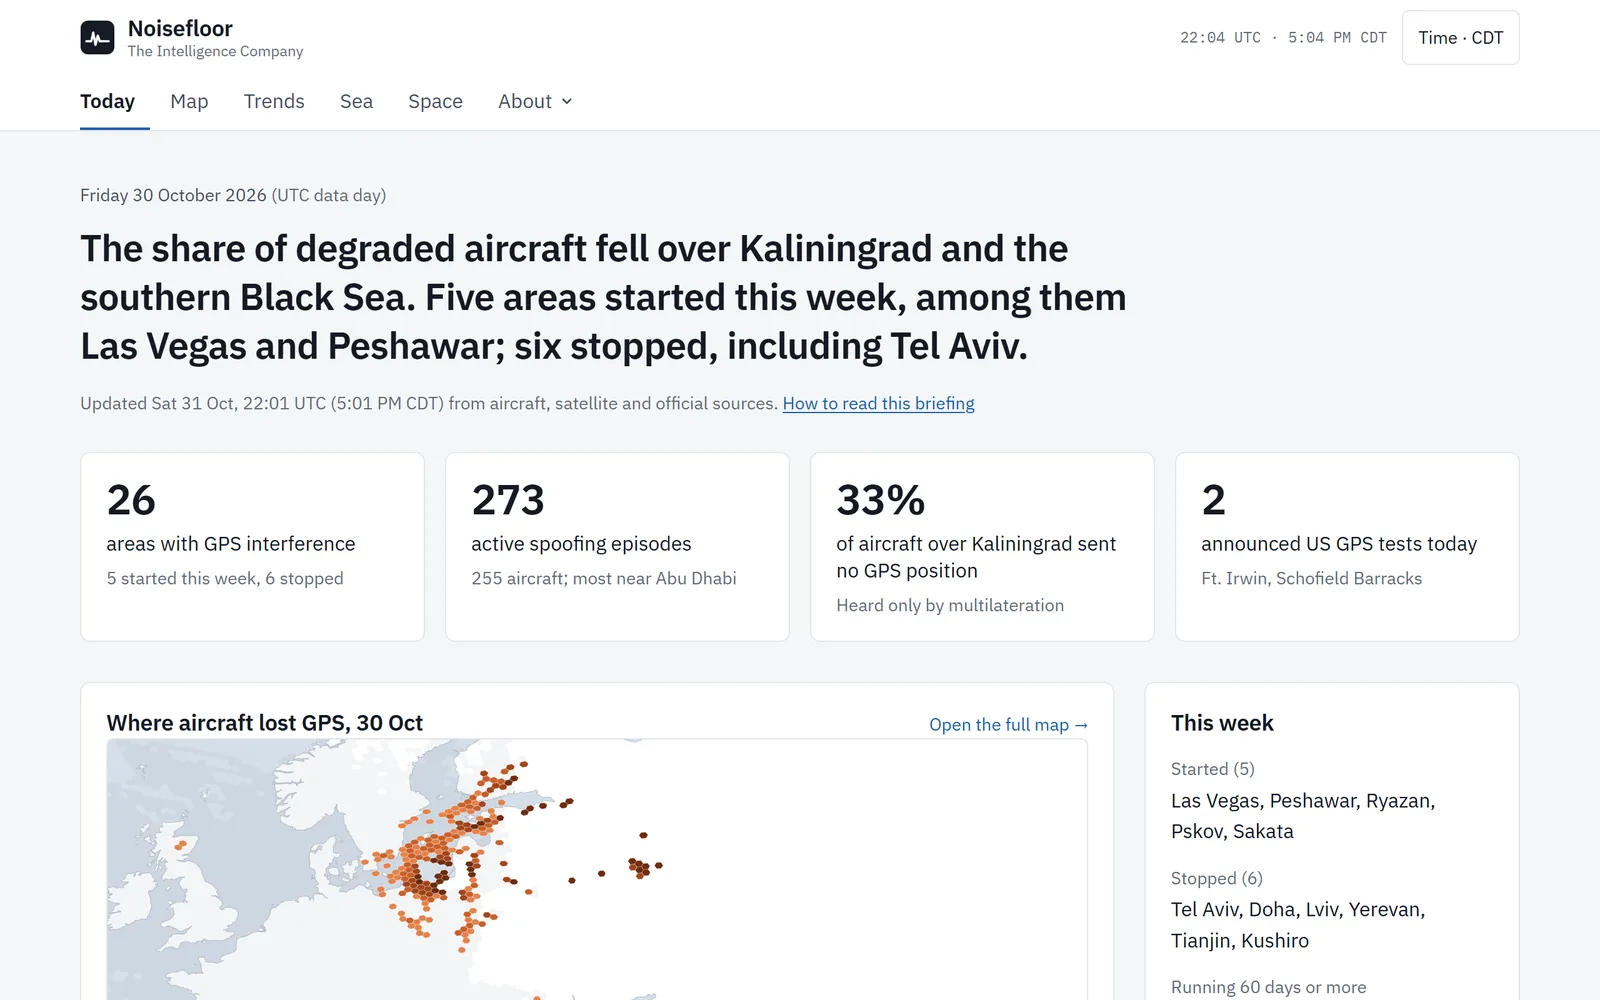
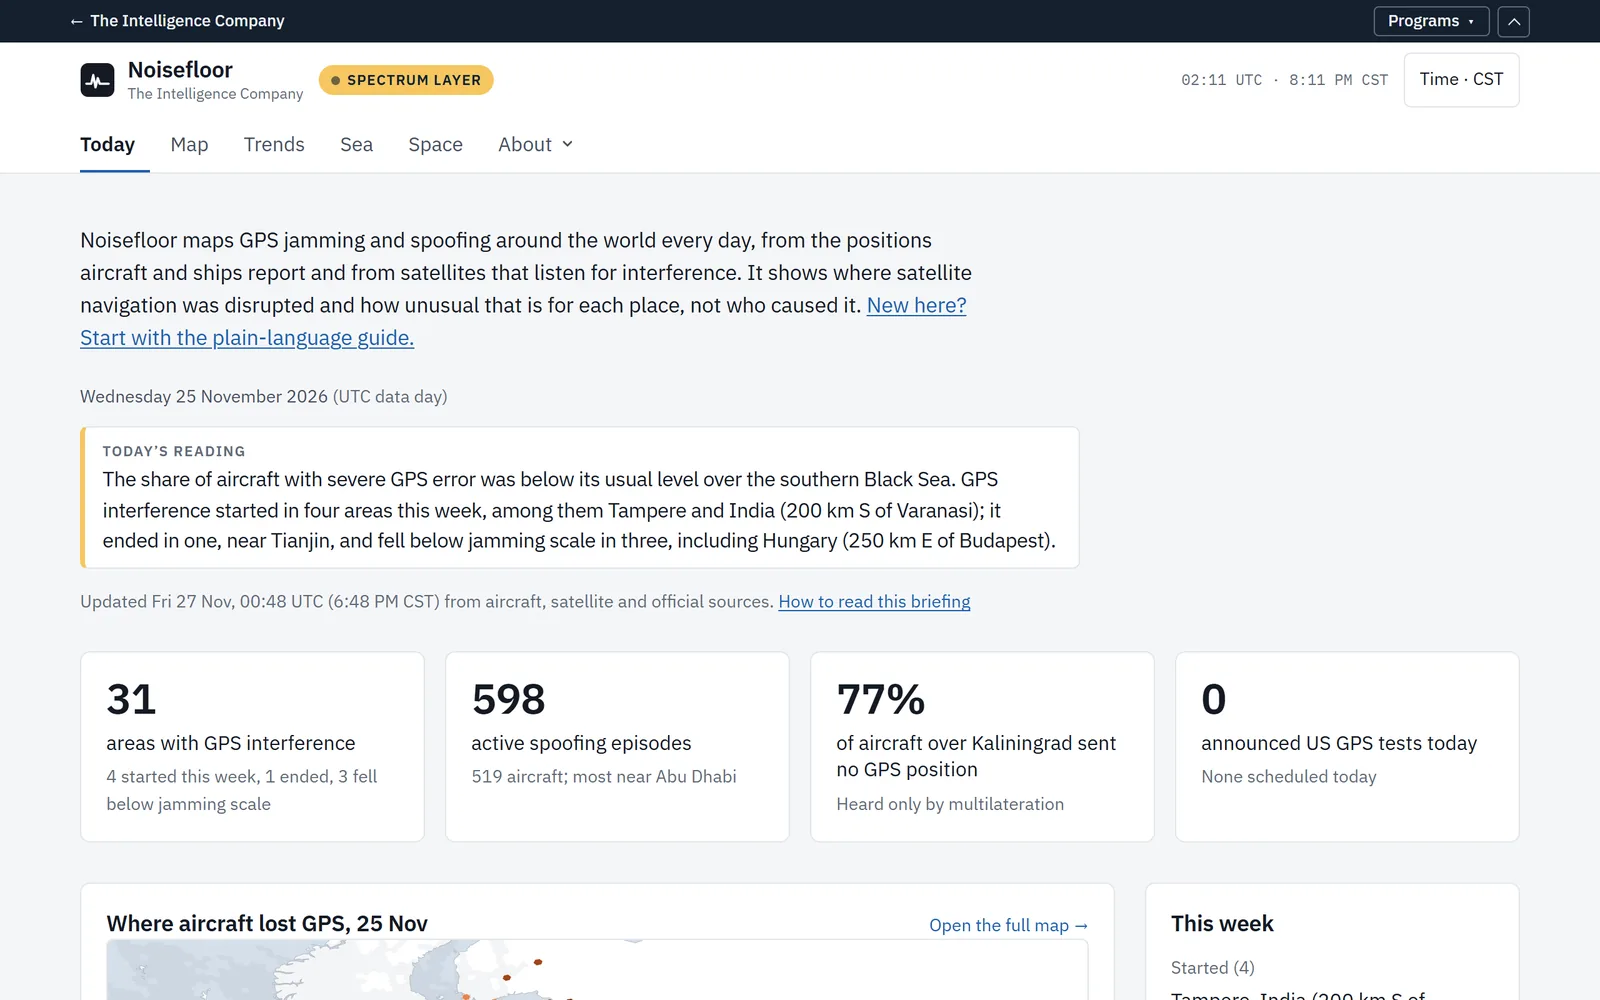
Home page: COP in Products, current screenshots, wider subject line
COP joins the featured programs. The COP, Noisefloor and Watchfloor screenshots are
retaken, and tools/shots.js retakes them and dates their captions. The top line,
description tags and link-preview image name the subjects the programs now cover.

Assisted-by: Claude Code (Anthropic)

diff --git a/site/index.html b/site/index.html
@@ -5,23 +5,23 @@
 <meta name="viewport" content="width=device-width, initial-scale=1">
 <title>The Intelligence Company · OSINT from Fargo-Moorhead, ND/MN</title>
 <link rel="canonical" href="https://theintelligence.company/">
-<meta name="description" content="Open-source intelligence tools from Fargo-Moorhead, ND/MN: conflict warning, GPS jamming and spoofing, cyber threats and verified forecasting.">
+<meta name="description" content="Open-source intelligence tools from Fargo-Moorhead, ND/MN: conflict warning, GPS jamming and spoofing, cyber threats and outages, space, natural hazards and verified forecasting.">
 <meta property="og:type" content="website">
 <meta property="og:site_name" content="The Intelligence Company">
 <meta property="og:title" content="The Intelligence Company">
-<meta property="og:description" content="Open-source intelligence tools from Fargo-Moorhead, ND/MN: conflict warning, GPS jamming and spoofing, cyber threats and verified forecasting.">
+<meta property="og:description" content="Open-source intelligence tools from Fargo-Moorhead, ND/MN: conflict warning, GPS jamming and spoofing, cyber threats and outages, space, natural hazards and verified forecasting.">
 <meta property="og:url" content="https://theintelligence.company/">
 <meta property="og:image" content="https://theintelligence.company/img/og-card.png">
 <meta property="og:image:width" content="1200">
 <meta property="og:image:height" content="630">
-<meta property="og:image:alt" content="The Intelligence Company: open-source intelligence, built in the Red River Valley. Conflict, GPS interference, cyber threats and forecasting, from Fargo-Moorhead, ND/MN.">
+<meta property="og:image:alt" content="The Intelligence Company: open-source intelligence, built in the Red River Valley. Conflict, GPS interference, cyber, space, hazards and forecasting, from Fargo-Moorhead, ND/MN.">
 <meta name="twitter:card" content="summary_large_image">
 <script type="application/ld+json">
 {"@context": "https://schema.org", "@graph": [
   {"@type": "Organization", "@id": "https://theintelligence.company/#org", "name": "The Intelligence Company",
    "url": "https://theintelligence.company/", "logo": "https://theintelligence.company/img/logo-512.png",
    "email": "support@theintelligence.company",
-   "description": "Open-source intelligence tools from publicly available information: conflict warning, GPS jamming and spoofing, cyber threats and verified forecasting.",
+   "description": "Open-source intelligence tools from publicly available information: conflict warning, GPS jamming and spoofing, cyber threats and outages, space, natural hazards and verified forecasting.",
    "founder": {"@type": "Person", "name": "Thomas Brummer", "image": "https://theintelligence.company/img/thomas-brummer.webp",
      "sameAs": ["https://www.linkedin.com/in/tom-brummer/"]},
    "address": {"@type": "PostalAddress", "addressLocality": "Fargo", "addressRegion": "ND", "addressCountry": "US"}},
@@ -76,11 +76,11 @@
 <noscript><p class="wrap noscript">The map, the Latest panel and the time settings need JavaScript. The rest of this page works without it.</p></noscript>
   <section class="wrap hero">
     <div class="hero-main">
-      <p class="kicker">Conflict · GPS interference · Cyber threats · Forecasting</p>
+      <p class="kicker">Conflict · GPS · Cyber · Space · Hazards · Forecasting</p>
       <h1>Open-source intelligence, built in the Red River Valley.</h1>
       <p class="lede">We build monitoring and analysis tools from publicly available information: warning on conflict,
-        GPS jamming and spoofing, cyber threats, and forecasts that check themselves. Every product credits its
-        sources, dates its claims and publishes its methods.</p>
+        GPS jamming and spoofing, cyber threats and outages, activity in orbit, natural hazards, and forecasts that
+        check themselves. Every product credits its sources, dates its claims and publishes its methods.</p>
       <p class="actions">
         <a class="btn" href="#products">See the products</a>
       </p>
@@ -442,6 +442,21 @@
       <p class="kicker">Products</p>
       <h2 id="products-h" class="section-h">Tools that show their sources and their methods.</h2>
 
+      <div class="feature feature-rev">
+        <figure>
+          <img src="img/cop-map.webp" width="1600" height="1000" loading="lazy" alt="COP's front page for 26 Nov 2026: filters by subject, the Today panel on which places are getting more or less concerning, starting with the Strait of Hormuz and the Gulf, and a map of findings coloured by program, from Europe across Africa to the Gulf, with a map key">
+          <figcaption>COP's map and its Today panel (screenshot, 26 Nov 2026).</figcaption>
+        </figure>
+        <div>
+          <p class="meta">Every layer · <span class="st-beta">Beta</span></p>
+          <h3 class="feature-h">COP</h3>
+          <p class="feature-text">The common operational picture: every layer's findings on one map, so a place or topic
+            that turns up in more than one layer stands out. Outages are already read against hazards, notices and press
+            attention in the same country; convergence scoring, checked by Verdict, is in development.</p>
+          <a class="more" href="https://cop.theintelligence.company" target="_blank" rel="noopener" aria-describedby="newtab">Open COP <span aria-hidden="true">↗</span></a>
+        </div>
+      </div>
+
       <div class="feature">
         <div>
           <p class="meta">Warning and monitoring · <span class="st-live">Live</span></p>
@@ -457,15 +472,15 @@
           <a class="more" href="https://noisefloor.theintelligence.company" target="_blank" rel="noopener" aria-describedby="newtab">Open Noisefloor <span aria-hidden="true">↗</span></a>
         </div>
         <figure>
-          <img src="img/noisefloor-today.webp" width="1600" height="1000" loading="lazy" alt="Noisefloor's Today page for 30 Oct 2026: the day's briefing, counts of areas with GPS interference, active spoofing episodes and aircraft over Kaliningrad sending no GPS position, and a map of where aircraft lost GPS over northern Europe">
-          <figcaption>Noisefloor's daily briefing on GPS interference (screenshot, 31 Oct 2026).</figcaption>
+          <img src="img/noisefloor-today.webp" width="1600" height="1000" loading="lazy" alt="Noisefloor's Today page for 25 Nov 2026: the day's reading, counts of areas with GPS interference, active spoofing episodes, aircraft over Kaliningrad sending no GPS position and announced US GPS tests, and the top of a map of where aircraft lost GPS">
+          <figcaption>Noisefloor's daily briefing on GPS interference (screenshot, 26 Nov 2026).</figcaption>
         </figure>
       </div>
 
       <div class="feature feature-rev">
         <figure>
-          <img src="img/watchfloor-zones.webp" width="1600" height="1000" loading="lazy" alt="Watchfloor's zone board for 30 Oct 2026: conflict zones with story counts, news attention against each zone's usual level, and reported violence against its usual level">
-          <figcaption>Watchfloor's zone board for 30 Oct 2026 (screenshot, 31 Oct 2026).</figcaption>
+          <img src="img/watchfloor-zones.webp" width="1600" height="1000" loading="lazy" alt="Watchfloor's zone board for 25 Nov 2026: places rising today, and conflict zones with story counts, news attention against each zone's usual level, and reported violence against its usual level, with India-Pakistan marked as an alarm">
+          <figcaption>Watchfloor's zone board (screenshot, 26 Nov 2026).</figcaption>
         </figure>
         <div>
           <p class="meta">Warning and monitoring · <span class="st-beta">Beta</span></p>

diff --git a/tools/shots.js b/tools/shots.js
@@ -1,0 +1,45 @@
+// Retake the hub's product screenshots from the live public sites and date their captions.
+// Usage, from the repo root (needs `npm ci` in tests/, Microsoft Edge, and Python with Pillow):
+//   node tools/shots.js              all pages below
+//   node tools/shots.js cop-map      one page
+// Look at each image before committing it, and rewrite its alt text in site/index.html to match.
+// The alt text names the data day shown, so it changes with every capture.
+// Pages behind a sign-in (vigil-actors) are not captured here.
+const { execFileSync } = require("node:child_process");
+const fs = require("node:fs");
+const os = require("node:os");
+const path = require("node:path");
+const { chromium } = require(path.join(__dirname, "..", "tests", "node_modules", "playwright-core"));
+
+const PAGES = {
+  "cop-map": "https://cop.theintelligence.company/",
+  "noisefloor-today": "https://noisefloor.theintelligence.company/",
+  "watchfloor-zones": "https://watchfloor.theintelligence.company/",
+};
+
+(async () => {
+  const names = process.argv.slice(2).length ? process.argv.slice(2) : Object.keys(PAGES);
+  const dir = fs.mkdtempSync(path.join(os.tmpdir(), "shots-"));
+  const browser = await chromium.launch({ channel: "msedge", args: ["--enable-unsafe-swiftshader", "--use-angle=swiftshader"] });
+  const index = path.join(__dirname, "..", "site", "index.html");
+  const today = new Date().toLocaleDateString("en-GB", { day: "numeric", month: "short", year: "numeric" });
+  try {
+    for (const name of names) {
+      if (!PAGES[name]) throw new Error(`unknown page: ${name}`);
+      const page = await browser.newPage({ viewport: { width: 1280, height: 800 }, deviceScaleFactor: 2, colorScheme: "light" });
+      await page.goto(PAGES[name], { waitUntil: "load", timeout: 90000 });
+      await page.waitForTimeout(25000);
+      const png = path.join(dir, `${name}.png`);
+      await page.screenshot({ path: png });
+      await page.close();
+      execFileSync("python", [path.join(__dirname, "shots.py"), png], { stdio: "inherit" });
+      const html = fs.readFileSync(index, "utf8");
+      const re = new RegExp(String.raw`(src="img/${name}\.webp"[\s\S]*?\(screenshot, )[^)]+\)`);
+      if (!re.test(html)) console.warn(`no dated caption found for ${name}`);
+      else fs.writeFileSync(index, html.replace(re, `$1${today})`));
+      console.log(`captured ${name}: ${png}`);
+    }
+  } finally {
+    await browser.close();
+  }
+})().catch((e) => { console.error(e.message); process.exit(1); });

diff --git a/tools/og-card.html b/tools/og-card.html
@@ -32,7 +32,7 @@ h1 { flex: 1; margin: 0; display: flex; align-items: center; font: 500 84px/1.04
     <span class="where">Fargo-Moorhead, ND/MN</span>
   </div>
   <h1>Open-source intelligence, built in the Red&nbsp;River&nbsp;Valley.</h1>
-  <div class="foot"><span class="lines">Conflict · GPS interference · Cyber threats · Forecasting</span></div>
+  <div class="foot"><span class="lines">Conflict · GPS · Cyber · Space · Hazards · Forecasting</span></div>
 </div>
 </body>
 </html>

diff --git a/tools/shots.py b/tools/shots.py
@@ -1,0 +1,9 @@
+"""Turn the PNGs that tools/shots.js captures into the 1600x1000 WebP product screenshots in site/img/."""
+import sys
+from pathlib import Path
+from PIL import Image
+
+for png in map(Path, sys.argv[1:]):
+    out = Path(__file__).resolve().parent.parent / "site" / "img" / (png.stem + ".webp")
+    Image.open(png).convert("RGB").resize((1600, 1000), Image.LANCZOS).save(out, "WEBP", quality=82, method=6)
+    print(out.name, out.stat().st_size)
